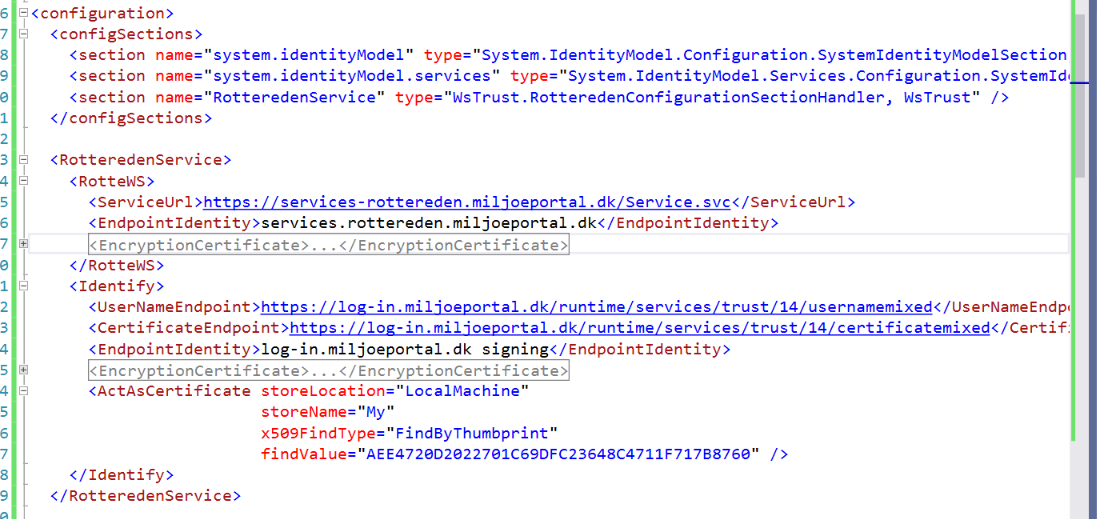
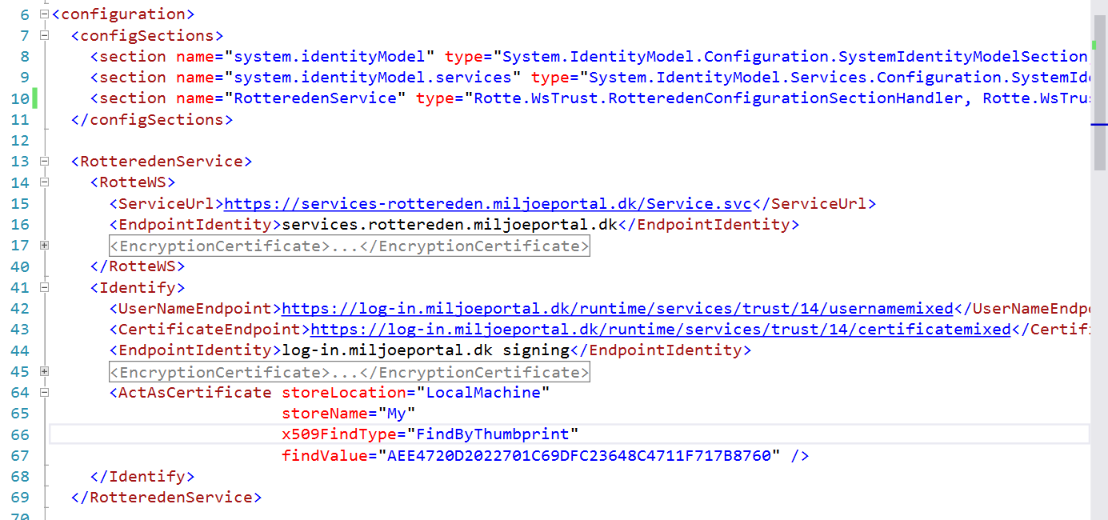
Document "How to integrate with a web app"

Changed region(s): [[0.0, 0.0, 1.0, 1.0]]

diff --git a/src/Example/Rotte.WsTrust/UserNameWSTrustBinding.cs b/src/Example/Rotte.WsTrust/UserNameWSTrustBinding.cs
@@ -1,0 +1,101 @@
+using System;
+using System.Net;
+using System.ServiceModel;
+using System.ServiceModel.Channels;
+
+namespace Rotte.WsTrust
+{
+    public class UserNameWSTrustBinding : WSTrustBinding
+    {
+        // Fields
+        private HttpClientCredentialType _clientCredentialType;
+
+        // Methods
+        public UserNameWSTrustBinding()
+            : this(SecurityMode.Message, HttpClientCredentialType.None)
+        { }
+
+        public UserNameWSTrustBinding(SecurityMode securityMode)
+            : base(securityMode)
+        {
+            if (SecurityMode.Message == securityMode)
+            {
+                this._clientCredentialType = HttpClientCredentialType.None;
+            }
+        }
+
+        public UserNameWSTrustBinding(SecurityMode mode, HttpClientCredentialType clientCredentialType)
+            : base(mode)
+        {
+            if (!IsHttpClientCredentialTypeDefined(clientCredentialType))
+            {
+                throw new ArgumentOutOfRangeException("clientCredentialType");
+            }
+
+            if (((SecurityMode.Transport == mode) && (HttpClientCredentialType.Digest != clientCredentialType)) && (HttpClientCredentialType.Basic != clientCredentialType))
+            {
+                throw new InvalidOperationException("ID3225");
+            }
+
+            _clientCredentialType = clientCredentialType;
+        }
+
+        protected override void ApplyTransportSecurity(HttpTransportBindingElement transport)
+        {
+            if (_clientCredentialType == HttpClientCredentialType.Basic)
+            {
+                transport.AuthenticationScheme = AuthenticationSchemes.Basic;
+            }
+            else
+            {
+                transport.AuthenticationScheme = AuthenticationSchemes.Digest;
+            }
+        }
+
+        protected override SecurityBindingElement CreateSecurityBindingElement()
+        {
+            if (SecurityMode.Message == base.SecurityMode)
+            {
+                return SecurityBindingElement.CreateUserNameForCertificateBindingElement();
+            }
+
+            if (SecurityMode.TransportWithMessageCredential == base.SecurityMode)
+            {
+                return SecurityBindingElement.CreateUserNameOverTransportBindingElement();
+            }
+
+            return null;
+        }
+
+        private static bool IsHttpClientCredentialTypeDefined(HttpClientCredentialType value)
+        {
+            if ((((value != HttpClientCredentialType.None) && (value != HttpClientCredentialType.Basic)) && ((value != HttpClientCredentialType.Digest) && (value != HttpClientCredentialType.Ntlm))) && (value != HttpClientCredentialType.Windows))
+            {
+                return (value == HttpClientCredentialType.Certificate);
+            }
+
+            return true;
+        }
+
+        // Properties
+        public HttpClientCredentialType ClientCredentialType
+        {
+            get
+            {
+                return _clientCredentialType;
+            }
+            set
+            {
+                if (!IsHttpClientCredentialTypeDefined(value))
+                {
+                    throw new ArgumentOutOfRangeException("value");
+                }
+                if (((SecurityMode.Transport == base.SecurityMode) && (HttpClientCredentialType.Digest != value)) && (HttpClientCredentialType.Basic != value))
+                {
+                    throw new InvalidOperationException("ID3225");
+                }
+                _clientCredentialType = value;
+            }
+        }
+    }
+}

diff --git a/src/Example/Rotte.WsTrust/RotteredenConfigurationSectionHandler.cs b/src/Example/Rotte.WsTrust/RotteredenConfigurationSectionHandler.cs
@@ -100,18 +100,22 @@ namespace Rotte.WsTrust
                 GetChildElementInnerText(adfs2Element, "EndpointIdentity", true));
             IdentifyEncryptionCertificate = GetChildElementInnerTextAsX509Certificate(adfs2Element, "EncryptionCertificate", true);
 
-            // Indlæs act as cert
-            var actAsElement = GetChildElementFromName(adfs2Element, "ActAsCertificate", true);
-            var storeLocation =
-                (StoreLocation)
-                Enum.Parse(typeof(StoreLocation), GetAttributeValueAsString(actAsElement, "storeLocation", true));
-            var storeName = (StoreName)
-                Enum.Parse(typeof(StoreName), GetAttributeValueAsString(actAsElement, "storeName", true));
-            var findType = (X509FindType)
-                Enum.Parse(typeof(X509FindType), GetAttributeValueAsString(actAsElement, "x509FindType", true));
-            var findValue = GetAttributeValueAsString(actAsElement, "findValue", true);
+            try
+            {
+                // Indlæs act as cert
+                var actAsElement = GetChildElementFromName(adfs2Element, "ActAsCertificate", true);
+                var storeLocation =
+                    (StoreLocation)
+                    Enum.Parse(typeof(StoreLocation), GetAttributeValueAsString(actAsElement, "storeLocation", true));
+                var storeName = (StoreName)
+                    Enum.Parse(typeof(StoreName), GetAttributeValueAsString(actAsElement, "storeName", true));
+                var findType = (X509FindType)
+                    Enum.Parse(typeof(X509FindType), GetAttributeValueAsString(actAsElement, "x509FindType", true));
+                var findValue = GetAttributeValueAsString(actAsElement, "findValue", true);
 
-            ActAsCertificate = CertUtil.GetCertificate(storeLocation, storeName, findType, findValue);
+                ActAsCertificate = CertUtil.GetCertificate(storeLocation, storeName, findType, findValue);
+            }
+            catch { }
         }
 
         #endregion

diff --git a/src/Example/Rotte.WsTrust/WsTrustClient2013.cs b/src/Example/Rotte.WsTrust/WsTrustClient2013.cs
@@ -65,6 +65,7 @@ namespace Rotte.WsTrust
                 CloseChannel(channel);
             }
         }
+
         public static WS2007FederationHttpBinding GetServiceBinding(WS2007HttpBinding stsBinding,
             bool negotiateServiceCertificate)
         {
@@ -88,6 +89,7 @@ namespace Rotte.WsTrust
 
             return serviceBinding;
         }
+
         public static void CloseChannel(object channel)
         {
             var communicationObject = (ICommunicationObject)channel;
@@ -105,7 +107,7 @@ namespace Rotte.WsTrust
 
         public static WS2007HttpBinding GetStsBinding()
         {
-            var stsBinding = new WS2007HttpBinding(SecurityMode.Message);
+            var stsBinding = new WS2007HttpBinding(SecurityMode.TransportWithMessageCredential);
             stsBinding.Security.Message.EstablishSecurityContext = false;
 
             return stsBinding;

diff --git a/src/Example/WsFed.Web/Default.aspx.cs b/src/Example/WsFed.Web/Default.aspx.cs
@@ -26,7 +26,10 @@ namespace WsFed.Web
             RemoteRepeater.DataBind();
 
             var request = new SearchRotteanmeldelseRequest();
-            request.criteria.MaxRecords = 1;
+            request.criteria = new RotteanmeldelseSearch
+            {
+                MaxRecords = 1
+            };
             var response = rotteWS.SearchRotteanmeldelse(request);
         }
     }

diff --git a/README.md b/README.md
@@ -51,6 +51,10 @@ Declare configuration element included in web.config: system.identityModel, syst
 Contains the information of RotteWS configuration and Identify configuration
 ![image.png](/assets/images/03.png)
 
+- RotteWS/ServiceUrl is RotteWS url
+\+ Prod: https://services-rottereden.miljoeportal.dk/Service.svc
+\+ Demo: https://services-rottereden.demo.miljoeportal.dk/Service.svc
+
 - RotteWS/EncryptionCertificate is based64 content of `/certificates/Encryption/services.rottereden.miljoeportal.dk.cer` file 
 
 - Identify/EncryptionCertificate is based64 content of `/certificates/Identify/log-in.miljoeportal.dk.cer` file
@@ -69,10 +73,12 @@ Just follow exact code as below
 
 #### 1.6. Contact RotteWS from C# code 
 `Rotte.WsTrust` library project is located `\src\Exmample\Rotte.WsTrust` consists of WsFed authentication and Rotte service contracts code, download it and add to your project as libarary
+`Rotte.WsTrust` already add RotteWS service reference by Visual Studio
 ![image.png](/assets/images/09.png)
 
-In above code, `Page_Load` event method shows how get RotteWS service instance from ActAs security token in the web app 
 
+In below code, `Page_Load` event method shows how get RotteWS service instance from ActAs security token in the web app 
+![image.png](/assets/images/10.png)
 
 ## 2. How to integrate with a desktop app
 
